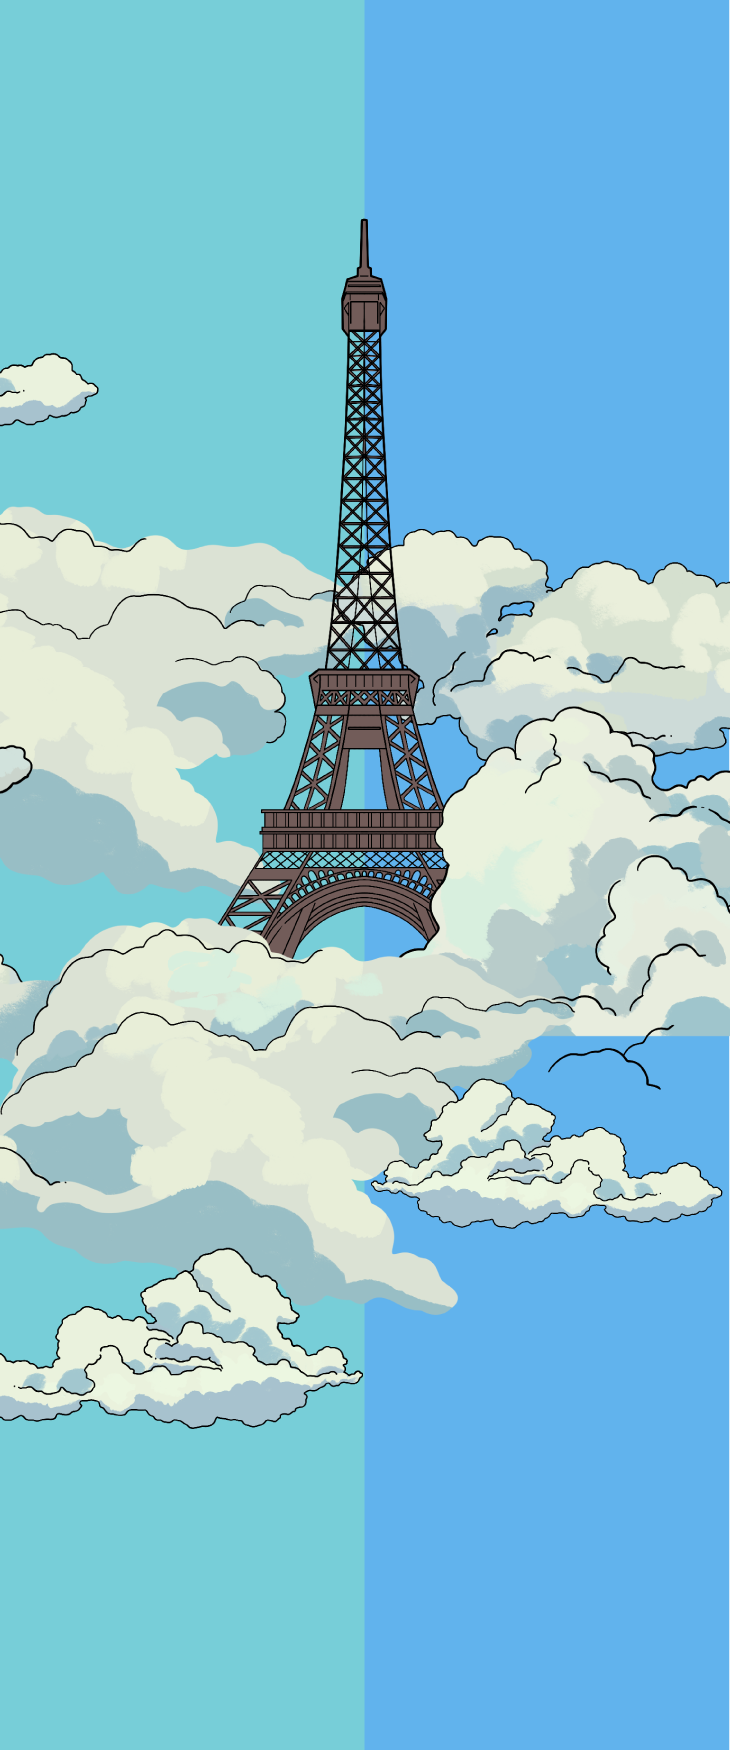
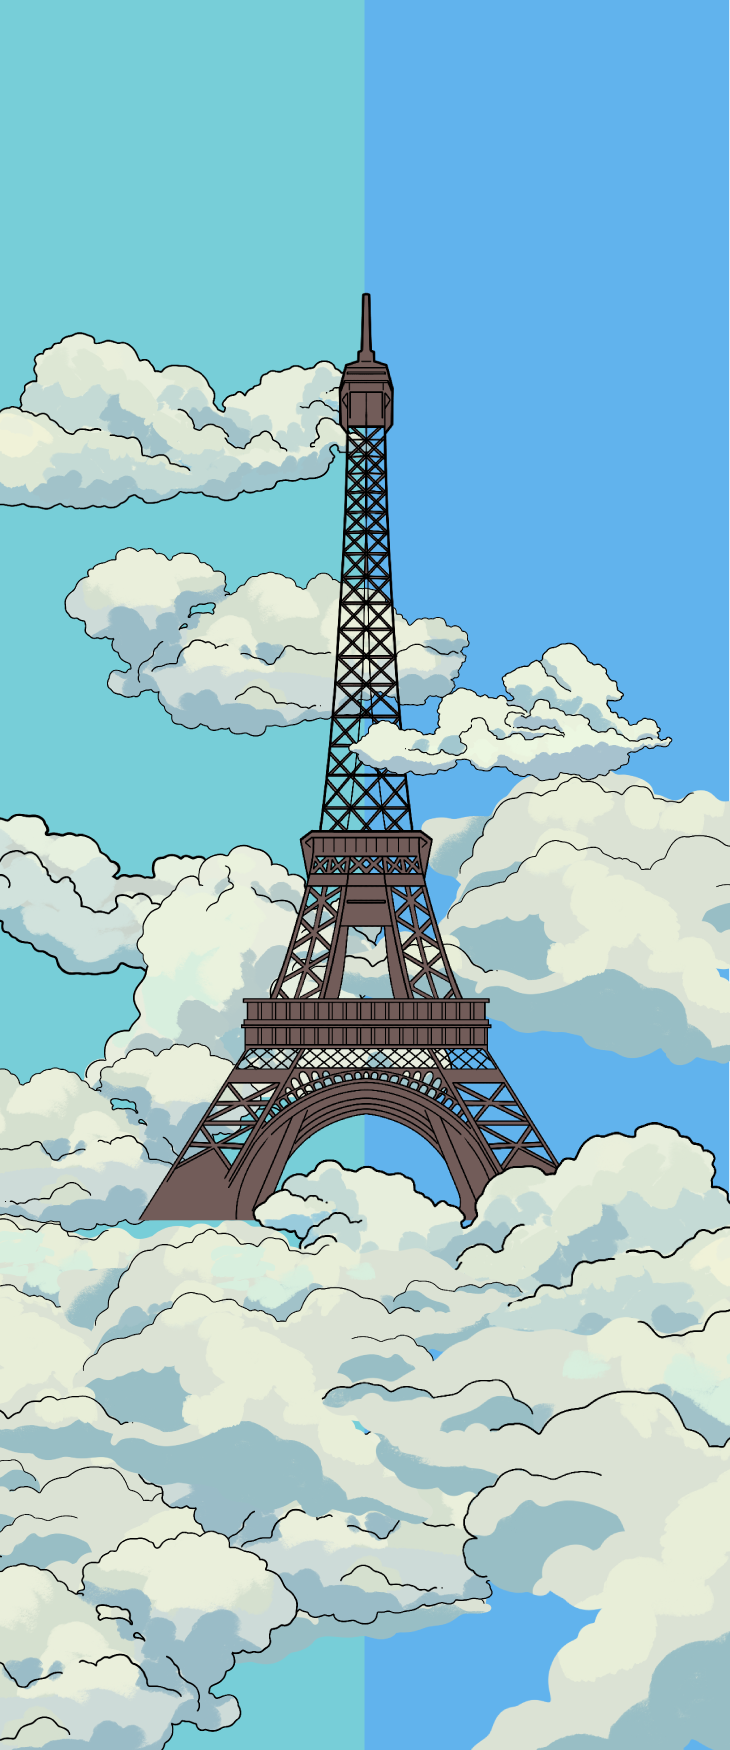
Adjust arrow

diff --git a/paris-100-years-later/script.js b/paris-100-years-later/script.js
@@ -56,17 +56,26 @@ function handleStepEnter(response) {
   if (slideIndex === TOTAL_SLIDES) {
     scrollGraphic.style("height", "auto");
     chart.style("height", "auto");
-    img.style("height", "auto").style("object-fit", "contain");
+    img
+      .style("height", "auto")
+      .style("width", "100vw")
+      .style("object-fit", "contain");
+
+    // Ensure the last step is full height
+    d3.select(response.element).style("height", "auto");
   } else {
     scrollGraphic.style("height", "100vh");
     chart.style("height", "100%");
-    img.style("height", "100%").style("object-fit", "cover");
+    img
+      .style("height", "100%")
+      .style("width", "100%")
+      .style("object-fit", "cover");
   }
 
   // Hide the scroll indicator after passing the first step
   if (slideIndex > 1) {
     scrollIndicator.style("opacity", 0);
-    setTimeout(() => scrollIndicator.style("display", "none"), 500); // Ensure it is completely hidden after the transition
+    setTimeout(() => scrollIndicator.style("display", "none"), 500);
   }
 }
 
@@ -99,6 +108,9 @@ function init() {
     .style("object-fit", "cover")
     .style("object-position", "top")
     .style("display", "block");
+
+  // Set initial source for final image
+  d3.select("#slide14-image").attr("src", getImageSrc(TOTAL_SLIDES));
 
   // Initial resize
   handleResize();

diff --git a/paris-100-years-later/css/styles.css b/paris-100-years-later/css/styles.css
@@ -134,34 +134,28 @@ body {
   min-width: 0;
 }
 
-/* Media Queries */
-@media (max-width: 768px) {
-  .step {
-    padding: 0.5rem;
-  }
-}
-
-/* Remove pseudo-elements */
-#scrolly *::before,
-#scrolly *::after {
-  content: none;
-}
-
-/* Arrow */
+/* Scroll Indicator */
 #scroll-indicator {
   position: fixed;
   bottom: 20px;
   left: 50%;
   transform: translateX(-50%);
-  animation: bounce 2s infinite;
+  text-align: center;
+  color: white;
+  font-family: Arial, sans-serif;
+  font-size: 16px;
+  text-shadow: 1px 1px 2px rgba(0, 0, 0, 0.5);
+  transition: opacity 0.5s;
 }
 
 .arrow {
-  border: solid white;
-  border-width: 0 3px 3px 0;
-  display: inline-block;
-  padding: 6px;
-  transform: rotate(45deg);
+  width: 0;
+  height: 0;
+  border-left: 10px solid transparent;
+  border-right: 10px solid transparent;
+  border-top: 15px solid white;
+  margin: 10px auto 0;
+  animation: bounce 2s infinite !important;
 }
 
 @keyframes bounce {
@@ -178,4 +172,17 @@ body {
   60% {
     transform: translateY(-5px);
   }
+}
+
+/* Media Queries */
+@media (max-width: 768px) {
+  .step {
+    padding: 0.5rem;
+  }
+}
+
+/* Remove pseudo-elements */
+#scrolly *::before,
+#scrolly *::after {
+  content: none;
 }

diff --git a/paris-100-years-later/index.html b/paris-100-years-later/index.html
@@ -38,9 +38,6 @@
                     <!-- Initial full-screen view -->
                     <div class="step initial-view" data-step="1">
                     </div>
-                    <div id="scroll-indicator">
-                        <i class="arrow down"></i>
-                    </div>
                     <!-- Countries represented -->
                     <div class="step" data-step="2">
                         <div class="background-wrapper">
@@ -255,6 +252,9 @@
                     </div>
                 </div>
             </section>
+            <div id="scroll-indicator">
+                <div class="arrow"></div>
+            </div>
         </main>
 
     </div>
